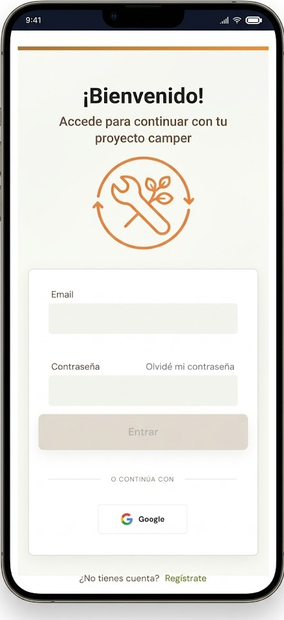
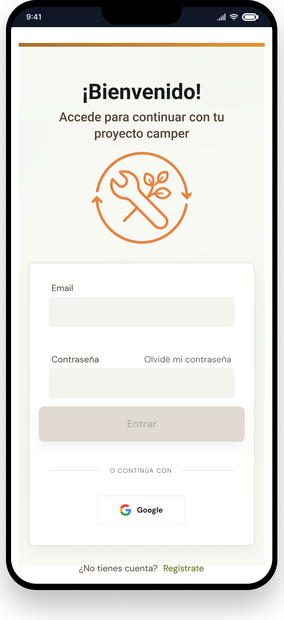
fix(camperoteca): update login screen, fix comunidad border, fix dark mode white corners
- Login: reprocess from third source image (4b2491fa) — transparent bg,
  full bezel top+bottom, no keyboard; alpha bbox crop → center width crop
  to 284:620 ratio → resize; flatten onto white bg
- Comunidad: direct resize from original 469×1024 (ratio already 0.458),
  no horizontal crop → right bezel no longer clipped in light mode
- Dark mode: wrap <img> in overflow:hidden container div with borderRadius:22px;
  move boxShadow to container; remove borderRadius from <img> itself so
  white phone-frame pixels are clipped by the parent instead of showing
  as white corners in dark mode

Claude-Session: https://claude.ai/code/session_01CQa4xash6mYWYEY8mbbWkX

diff --git a/app/[lang]/work/camperoteca/page.tsx b/app/[lang]/work/camperoteca/page.tsx
@@ -1369,21 +1369,31 @@ export default async function CamperotecaPage({ params }: Props) {
                       }}
                     />
                   ) : (
-                    /* eslint-disable-next-line @next/next/no-img-element */
-                    <img
-                      src={src}
-                      alt={alt}
-                      width={284}
-                      height={620}
+                    <div
                       style={{
                         display: "block",
                         width: "min(180px, 48vw)",
                         height: "calc(min(180px, 48vw) * 620 / 284)",
-                        objectFit: "cover",
                         borderRadius: "22px",
+                        overflow: "hidden",
                         boxShadow: "0 6px 24px rgba(0,0,0,0.1)",
+                        flexShrink: 0,
                       }}
-                    />
+                    >
+                      {/* eslint-disable-next-line @next/next/no-img-element */}
+                      <img
+                        src={src}
+                        alt={alt}
+                        width={284}
+                        height={620}
+                        style={{
+                          display: "block",
+                          width: "100%",
+                          height: "100%",
+                          objectFit: "cover",
+                        }}
+                      />
+                    </div>
                   )}
                 </div>
                 <h3
